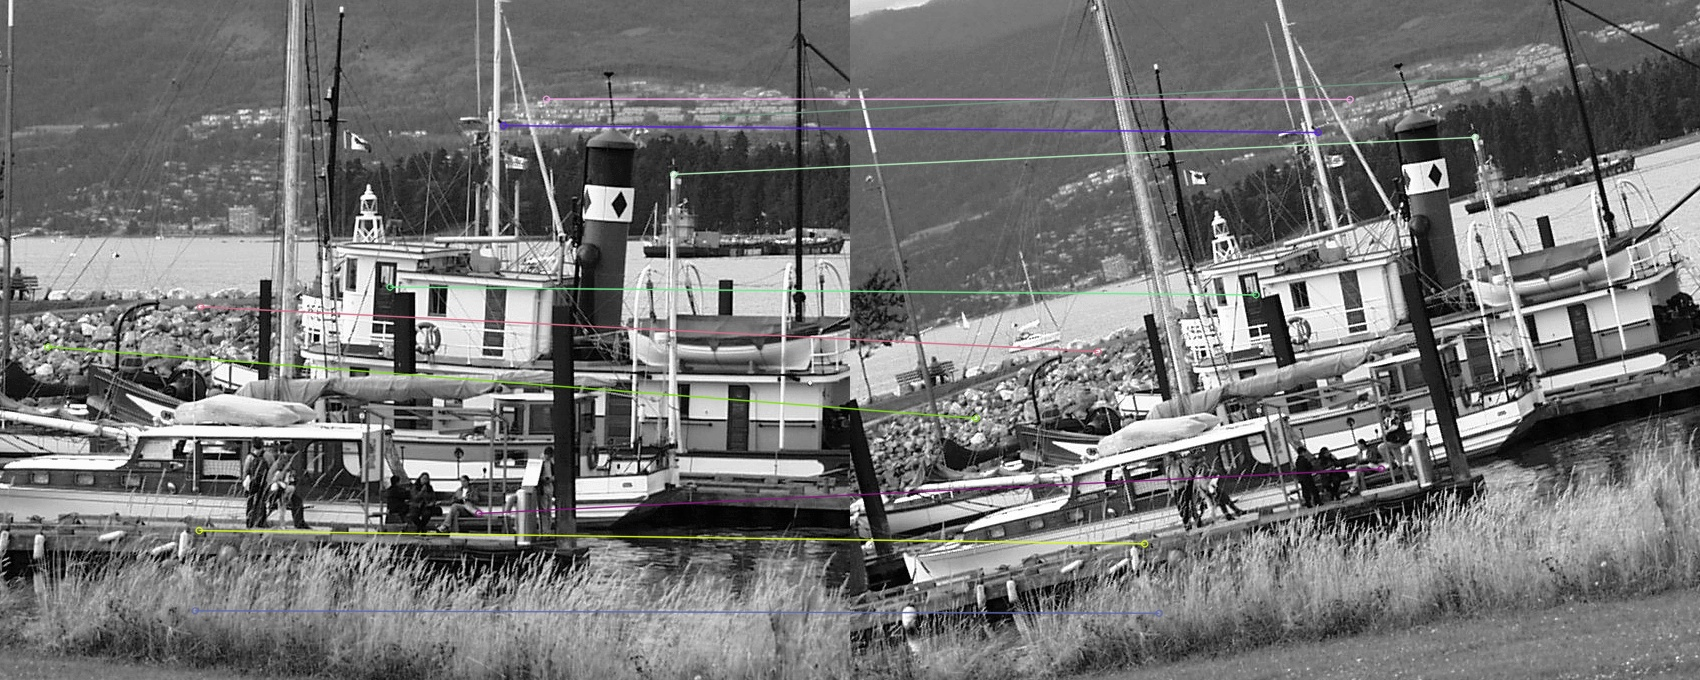
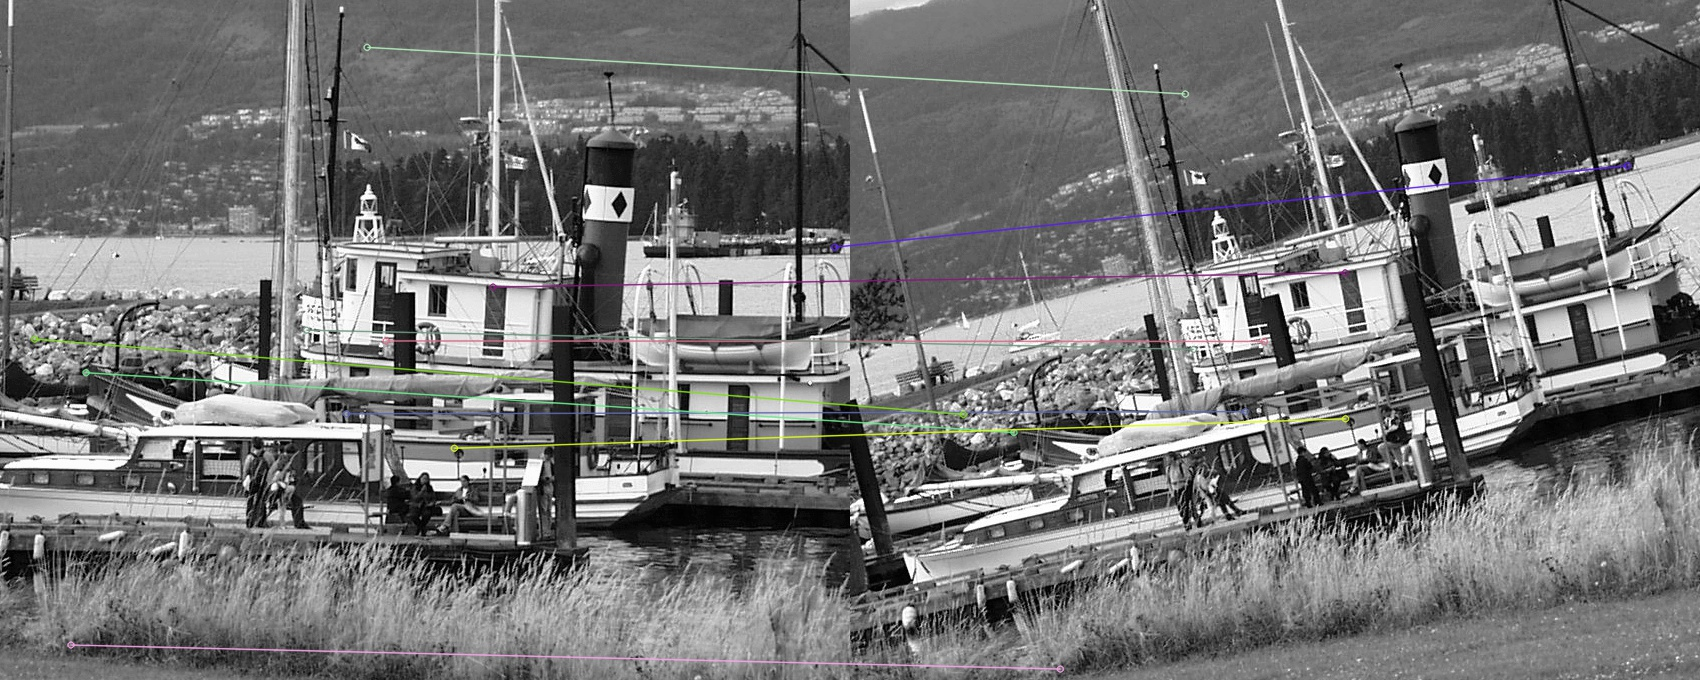
Warping almost done, TODO: warpaffine tuning

diff --git a/lab4/RANSAC.py b/lab4/RANSAC.py
@@ -1,6 +1,8 @@
 import numpy as np
 import cv2 as cv
 from keypoint_matching import compute_matches
+from matplotlib import pyplot as plt
+import math
 
 def get_coords(query, train, matches):
     '''
@@ -22,7 +24,7 @@ def RANSAC(num_iters, coords_query, coords_train, num_points=10):
     Input:
         num_iters - number of iterations
         coords_query - coordinates of matched keypoints in query, shape is (num_matches, 2)
-        coords_target - coordinates of matched keypoints in target, shape is (num_matches, 2)
+        coords_train - coordinates of matched keypoints in target, shape is (num_matches, 2)
         num_points - int, number of points to find the LS solution
     Output:
         best_params - best found parameters for the affine trafo
@@ -45,10 +47,10 @@ def RANSAC(num_iters, coords_query, coords_train, num_points=10):
         b = np.zeros((2*num_points))
 
         for i, idx in enumerate(idcs):
-            b[i:i+2] = np.array(coords_train[idx])
-            A[i:i+2,:] = np.array([[*coords_query[idx][::-1],0,0,1,0],\
+            b[2*i:2*i+2] = np.array(coords_train[idx])
+            A[2*i:2*i+2,:] = np.array([[*coords_query[idx],0,0,1,0],\
                                    [0,0,*coords_query[idx],0,1]])
-        
+
 
         # find least squares solution to Ax=b, via pseudoinverse
         A_dagger = np.linalg.pinv(A)
@@ -59,7 +61,7 @@ def RANSAC(num_iters, coords_query, coords_train, num_points=10):
         bias = np.array([x[4], x[5]])
 
         trafo_out = (coords_query @ B.T) + bias[None,:]
-        
+
         # compute number of inliers
         abs_diff = np.sqrt(np.sum((trafo_out - coords_train)**2, axis=1))
         num_inliers = np.shape(abs_diff[abs_diff<=10])[0]
@@ -69,17 +71,44 @@ def RANSAC(num_iters, coords_query, coords_train, num_points=10):
             max_inliers = num_inliers
             best_params = x
             best_kp_idcs = np.array(idcs, dtype=np.int32)
-    
+
     return best_params, max_inliers, best_kp_idcs
 
 
-def warp(coords, trafo_params):
+def warp(img_orig, trafo_params):
     '''
     Applies an affine transformation for given parameters on a grid of coordinates
     and returns the transformed coordinates, rounded to the next integer
     '''
-    #TODO: implement
-    raise NotImplementedError
+    coords_orig = np.indices((img_orig.shape[0],img_orig.shape[1])).T
+    coords_orig = coords_orig.reshape(-1,2)
+
+    B = np.array([[trafo_params[0],trafo_params[1]], [trafo_params[2], trafo_params[3]]]) # trafo matritrafo_params
+    bias = np.array([trafo_params[4], trafo_params[5]])
+
+    transf_coord = np.array(np.around((coords_orig @ B.T) + bias[None,:]), dtype=np.int32)
+
+    #find minimum and maximum x and y values to be able to fit the warped image into a picture frame
+    min_x, max_x, min_y, max_y = math.inf, -math.inf, math.inf, -math.inf
+    for i in range(len(transf_coord)):
+        if transf_coord[i][0] < min_x:
+            min_x = transf_coord[i][0]
+        if transf_coord[i][0] > max_x:
+            max_x = transf_coord[i][0]
+        if transf_coord[i][1] < min_y:
+            min_y = transf_coord[i][1]
+        if transf_coord[i][1] > max_y:
+            max_y = transf_coord[i][1]
+
+    #offset the coords to have min_x value of 0 and min_y value of 0
+    for j in range(len(transf_coord)):
+        transf_coord[j][0] = transf_coord[j][0] - min_x
+        transf_coord[j][1] = transf_coord[j][1] - min_y
+
+    new_im = np.zeros((max_x-min_x+1,max_y-min_y+1,img_orig.shape[2]))
+    new_im[transf_coord[:,0], transf_coord[:,1], :] = img_orig[coords_orig[:,0], coords_orig[:,1],:]
+
+    return new_im.astype(int)
 
 def demo():
     '''
@@ -108,7 +137,7 @@ def demo():
     # if we compute as compute_matches(img1, img2), then
     # query is kp1
     # train is kp2
-    
+
     # extract all coordinates and put them into numpy arrays
     coords_query, coords_train = get_coords(kp_query, kp_train, matches)
 
@@ -133,18 +162,55 @@ def demo():
 
     # compute offset for plotting the images next to each other
     offset = np.array([int(img1.shape[1]),0], dtype=np.int32)
-
     # draw red lines between the best keypoints
     for i in range(best_kp.shape[0]):
         pt1 = tuple(best_kp[i])
         pt2 = tuple(trafo_out[i] + offset)
         cv.line(hstack_image, pt1, pt2, (0,0,255), 3)
-    
+
     cv.imwrite('./side_by_side.jpg',hstack_image)
 
-    # warp from image 1 to image 2, i.e. from query to train with our own function
-    #TODO
-    
+    ##use transformation parameters of img1 -> img2 to construct warped images
+
+    #own function
+    new_img1 = warp(img1,trafo_params)
+
+    #cv2 warpAffine
+    M = np.array([[trafo_params[3],trafo_params[2],trafo_params[5]], [trafo_params[1], trafo_params[0],trafo_params[4]]])
+    new_img1_cv = cv.warpAffine(img1,M,(img1.shape[1],img1.shape[0]))
+
+    ##use transformation parameters of img2 -> img1 to construct warped images
+
+    #compute parameters for img2 to img1
+    kp_query, _, kp_train, _, matches = compute_matches(gray2, gray1, threshold=0.5)
+    coords_query, coords_train = get_coords(kp_query, kp_train, matches)
+    trafo_params2, _, _ = RANSAC(N, coords_query, coords_train, num_points)
+
+    #own function
+    new_img2 = warp(img2,trafo_params2)
+
+    #cv2 warpAffine
+    M = np.array([[trafo_params2[3],trafo_params2[2],trafo_params2[5]], [trafo_params2[1], trafo_params2[0],trafo_params2[4]]])
+    new_img2_cv = cv.warpAffine(img2,M,(img2.shape[1],img2.shape[0]))
+
+    #visualize all warped images
+    fig=plt.figure()
+    plt.subplot(2, 2, 1)
+    plt.imshow(new_img1,vmin=0,vmax=255)
+    plt.title('Own function (img1 -> img2)')
+    plt.subplot(2, 2, 2)
+    plt.imshow(new_img1_cv,vmin=0,vmax=255)
+    plt.title('warpAffine (img1 -> img2)')
+    plt.subplot(2, 2, 3)
+    plt.imshow(new_img2,vmin=0,vmax=255)
+    plt.title('Own function (img2 -> img1)')
+    plt.subplot(2, 2, 4)
+    plt.imshow(new_img2_cv,vmin=0,vmax=255)
+    plt.title('warpAffine (img2 -> img1)')
+    plt.show()
+
+
+
     # warp using cv.warpAffine
     #TODO
 
@@ -152,5 +218,5 @@ def demo():
 
 
 if __name__ == "__main__":
-    
+
     demo()

diff --git a/lab4/keypoint_matching.py b/lab4/keypoint_matching.py
@@ -20,12 +20,12 @@ def compute_matches(img1, img2, threshold=0.75):
     sift = cv.xfeatures2d.SIFT_create()
     kp1, des1 = sift.detectAndCompute(img1, None)
     kp2, des2 = sift.detectAndCompute(img2, None)
-    
+
     # instantiate matcher object
     matcher = cv.BFMatcher_create()
     # get 2 best matches
     matches = matcher.knnMatch(des1, des2, k=2)
-    # apply ratio test -> reject keypoints for which the second best 
+    # apply ratio test -> reject keypoints for which the second best
     # match is not much worse than the best match, as explained by D.Lowe
     # in his paper
     good_matches = []
@@ -33,10 +33,10 @@ def compute_matches(img1, img2, threshold=0.75):
         if i.distance < threshold * j.distance:
             good_matches.append([i])
 
-    return kp1, des1, kp2, des2, good_matches    
+    return kp1, des1, kp2, des2, good_matches
 
 if __name__ == "__main__":
-    
+
     # specify paths
     boat1 = './boat1.pgm'
     boat2 = './boat2.pgm'
